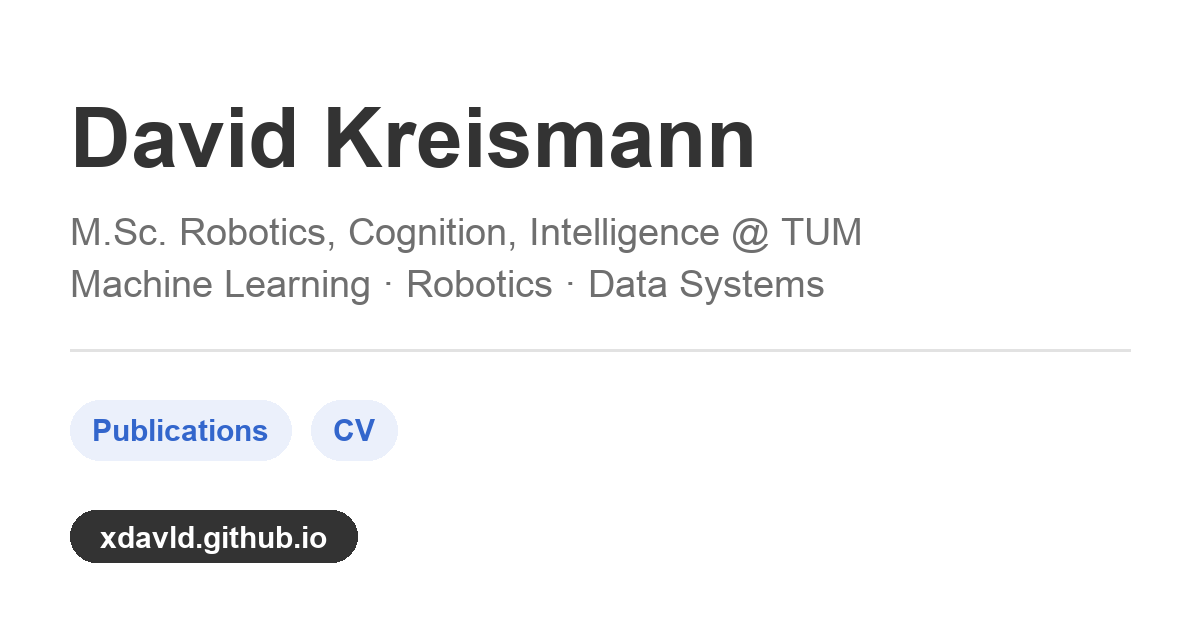
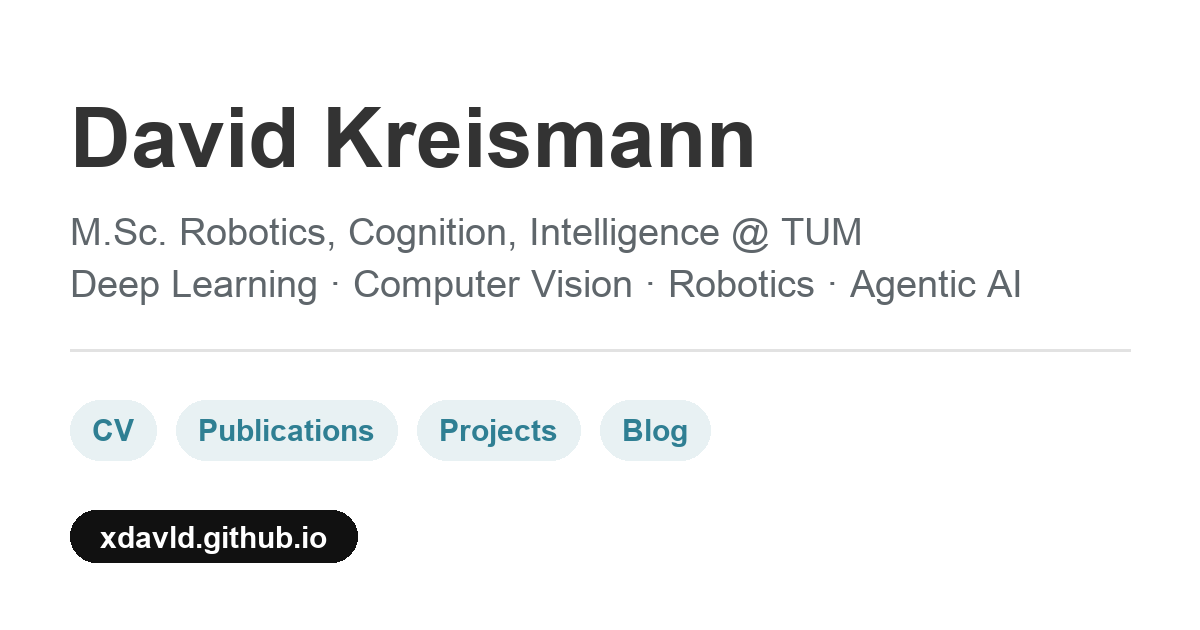
Polish German texts, localize footer, refresh preview image

diff --git a/_includes/footer.html b/_includes/footer.html
@@ -4,7 +4,7 @@
 <div class="page__footer-follow">
   <ul class="social-icons">
     {% if site.data.ui-text[site.locale].follow_label %}
-      <li><strong>{{ site.data.ui-text[site.locale].follow_label }}</strong></li>
+      <li><strong>{% if page.lang == 'de' %}Folgen:{% else %}{{ site.data.ui-text[site.locale].follow_label }}{% endif %}</strong></li>
     {% endif %}
     {% if site.author.github %}
       <li><a href="https://github.com/{{ site.author.github }}"><i class="fab fa-github" aria-hidden="true"></i> GitHub</a></li>
@@ -20,6 +20,6 @@
 {% endif %}
 
 <div class="page__footer-copyright">
-  &copy; {{ site.time | date: '%Y' }} {{ site.name | default: site.title }}, {{ site.data.ui-text[site.locale].powered_by | default: "Powered by" }} <a href="https://jekyllrb.com" rel="nofollow">Jekyll</a> &amp; <a href="https://github.com/academicpages/academicpages.github.io">AcademicPages</a>, a fork of <a href="https://mademistakes.com/work/minimal-mistakes-jekyll-theme/" rel="nofollow">Minimal Mistakes</a>.<br />
-  Site last updated {{ "now" | date: '%Y-%m-%d' }}, {% if page.lang == 'de' %}<a href="{{ base_path }}/de/datenschutz/" style="text-transform: uppercase;">Datenschutz</a>{% else %}<a href="{{ base_path }}/privacy/" style="text-transform: uppercase;">Privacy</a>{% endif %}
+  &copy; {{ site.time | date: '%Y' }} {{ site.name | default: site.title }}, {% if page.lang == 'de' %}erstellt mit{% else %}{{ site.data.ui-text[site.locale].powered_by | default: "Powered by" }}{% endif %} <a href="https://jekyllrb.com" rel="nofollow">Jekyll</a> &amp; <a href="https://github.com/academicpages/academicpages.github.io">AcademicPages</a>, {% if page.lang == 'de' %}basierend auf{% else %}a fork of{% endif %} <a href="https://mademistakes.com/work/minimal-mistakes-jekyll-theme/" rel="nofollow">Minimal Mistakes</a>.<br />
+  {% if page.lang == 'de' %}Zuletzt aktualisiert am {{ "now" | date: '%d.%m.%Y' }}{% else %}Site last updated {{ "now" | date: '%Y-%m-%d' }}{% endif %}, {% if page.lang == 'de' %}<a href="{{ base_path }}/de/datenschutz/" style="text-transform: uppercase;">Datenschutz</a>{% else %}<a href="{{ base_path }}/privacy/" style="text-transform: uppercase;">Privacy</a>{% endif %}
 </div>

diff --git a/_includes/author-profile.html b/_includes/author-profile.html
@@ -26,7 +26,7 @@
   </div>
 
   <div class="author__urls-wrapper">
-    <button class="btn btn--inverse">Follow</button>
+    <button class="btn btn--inverse">{% if page.lang == 'de' %}Folgen{% else %}Follow{% endif %}</button>
     <ul class="author__urls social-icons">
       <!-- Font Awesome icons / Biographic information  -->
       {% if author_location %}

diff --git a/_pages/de/about.md b/_pages/de/about.md
@@ -9,7 +9,7 @@ translation: /
 
 Ich studiere im Master **Robotics, Cognition, Intelligence** an der [Technischen Universität München (TUM)](https://www.tum.de) und bin Werkstudent bei [IBM](https://www.ibm.com).
 
-Auf meinem bisherigen Weg habe ich an Forschungsprojekten im [CV4DT Lab](https://cv4dt.github.io/) der University of Cambridge gearbeitet, wo ich mich aktuell damit beschäftige, Soft-Robotic-Greifer mit generativer KI zu entwerfen. Davor war ich bei IBM Research in [Zürich](https://research.ibm.com/labs/zurich) und [Almaden](https://research.ibm.com/labs/silicon-valley) sowie am [Karlsruhe Service Research Institute](https://www.ksri.kit.edu/) tätig.
+Parallel dazu forsche ich im [CV4DT Lab](https://cv4dt.github.io/) der University of Cambridge und entwerfe dort aktuell mit generativer KI weiche Robotergreifer. Davor war ich bei IBM Research in [Zürich](https://research.ibm.com/labs/zurich) und [Almaden](https://research.ibm.com/labs/silicon-valley) sowie am [Karlsruhe Service Research Institute](https://www.ksri.kit.edu/) tätig.
 
 Forschungsinteressen
 ======
@@ -20,11 +20,11 @@ Forschungsinteressen
 
 Neuigkeiten
 ======
-* **Jun. 2026** – Unser Paper *PTO: A Workload-driven Predictive Table Optimizer for Lakehouse Systems* wird auf der **SIGMOD 2026** vorgestellt.
-* **Jun. 2026** – Ausgezeichnet mit dem **GenDev IT-Stipendium** von CHECK24.
+* **Juni 2026** – Unser Paper *PTO: A Workload-driven Predictive Table Optimizer for Lakehouse Systems* wurde auf der **SIGMOD 2026** vorgestellt.
+* **Juni 2026** – **GenDev IT-Stipendium** von CHECK24 erhalten.
 * **Apr. 2026** – Start als Visiting Researcher im CV4DT Lab der University of Cambridge.
-* **Dez. 2025** – Meine Bachelorarbeit wurde mit dem **Preis für die beste Bachelorarbeit im Bereich Künstliche Intelligenz** (ZfKI) ausgezeichnet.
-* **Dez. 2025** – Vorstellung unserer Arbeit zu urbanen Hitzeinseln auf dem **NeurIPS 2025 Workshop: Tackling Climate Change with Machine Learning**.
-* **Okt. 2025** – Beginn meines Masterstudiums an der TUM und Aufnahme in die **Studienförderung der Stiftung der Deutschen Wirtschaft (sdw)**.
+* **Dez. 2025** – Meine Abschlussarbeit hat den **ZfKI-Preis für die beste Bachelorarbeit im Bereich Künstliche Intelligenz** gewonnen.
+* **Dez. 2025** – Unsere Arbeit zu urbanen Hitzeinseln wurde auf dem **NeurIPS 2025 Workshop: Tackling Climate Change with Machine Learning** vorgestellt.
+* **Okt. 2025** – Start ins Masterstudium an der TUM und Aufnahme in die **Studienförderung der Stiftung der Deutschen Wirtschaft (sdw)**.
 
 Mehr findest du in meinen [Publikationen](/de/publications/) und meinem [Lebenslauf](/de/cv/).

diff --git a/_posts/2026-10-24-willkommen.md b/_posts/2026-10-24-willkommen.md
@@ -11,6 +11,6 @@ related: false
 
 Hallo zusammen, ich habe es endlich geschafft, meine eigene Website aufzusetzen!
 
-Ich nutze sie vor allem als Ort, an dem man erfährt, wer ich bin und woran ich arbeite. Hier findest du meinen [Lebenslauf](/de/cv/), meine [Publikationen](/de/publications/) und einige meiner [Projekte](/de/projects/). Hin und wieder schreibe ich hier vielleicht auch einen Blogbeitrag, etwa über meine Forschungsprojekte oder über Dinge, die ich gerne teilen möchte.
+Hier erfährst du vor allem, wer ich bin und woran ich arbeite. Dazu gehören mein [Lebenslauf](/de/cv/), meine [Publikationen](/de/publications/) und einige meiner [Projekte](/de/projects/). Hin und wieder schreibe ich vielleicht auch einen Blogbeitrag, etwa über meine Forschungsprojekte oder über Dinge, die ich gerne teilen möchte.
 
 Danke fürs Vorbeischauen!

diff --git a/_portfolio/2026-04-check24-mcp-proxy.md b/_portfolio/2026-04-check24-mcp-proxy.md
@@ -1,7 +1,7 @@
 ---
 title: "CHECK24 MCP Proxy"
 excerpt: "One MCP endpoint that aggregates independent CHECK24 product verticals, with routing, conformance checks, versioning and telemetry. Built for the CHECK24 GenDev Scholarship Challenge."
-excerpt_de: "Ein einziger MCP-Endpunkt, der unabhängige CHECK24-Produktbereiche bündelt, mit Routing, Conformance-Prüfungen, Versionierung und Telemetrie. Entstanden für die CHECK24 GenDev Scholarship Challenge."
+excerpt_de: "Ein zentraler MCP-Endpunkt, der die unabhängigen Produktbereiche von CHECK24 bündelt, inklusive Routing, Conformance-Prüfung, Versionierung und Telemetrie. Entstanden für die CHECK24 GenDev Scholarship Challenge."
 collection: portfolio
 translation: /de/projects/check24-mcp-proxy/
 year: 2026

diff --git a/_portfolio/2025-01-semantix.md b/_portfolio/2025-01-semantix.md
@@ -1,7 +1,7 @@
 ---
 title: "Semantix"
 excerpt: "A word guessing game where every guess is scored by how close its meaning is to the secret word, using text embeddings and vector search. In German and English."
-excerpt_de: "Ein Worträtsel, bei dem jeder Tipp danach bewertet wird, wie nah seine Bedeutung am gesuchten Wort ist, mit Text-Embeddings und Vektorsuche. Auf Deutsch und Englisch."
+excerpt_de: "Ein Worträtsel, bei dem jeder Tipp danach bewertet wird, wie nah seine Bedeutung am gesuchten Wort liegt. Dahinter stecken Text-Embeddings und eine Vektorsuche. Spielbar auf Deutsch und Englisch."
 collection: portfolio
 translation: /de/projects/semantix/
 year: 2025

diff --git a/_pages/about.md b/_pages/about.md
@@ -22,7 +22,7 @@ Research interests
 
 News
 ======
-* **Jun 2026** – Our paper *PTO: A Workload-driven Predictive Table Optimizer for Lakehouse Systems* is presented at **SIGMOD 2026**.
+* **Jun 2026** – Our paper *PTO: A Workload-driven Predictive Table Optimizer for Lakehouse Systems* was presented at **SIGMOD 2026**.
 * **Jun 2026** – Awarded the **GenDev IT Scholarship** by CHECK24.
 * **Apr 2026** – Started as visiting researcher at the CV4DT Lab, University of Cambridge.
 * **Dec 2025** – My bachelor thesis received the **Best Bachelor Thesis Award in Artificial Intelligence** (ZfKI).

diff --git a/_pages/de/projects/instagram-uploader.md b/_pages/de/projects/instagram-uploader.md
@@ -6,4 +6,4 @@ lang: de
 translation: /portfolio/2024-11-instagram-uploader/
 ---
 
-Eine Web-App, die die Verwaltung eines Instagram-Accounts erleichtert. Man meldet sich mit seinem Instagram-Account an, lädt Bilder und Videos per Drag and Drop hoch und legt fest, wann jeder Beitrag online gehen soll.
+Eine Web-App, die das Verwalten eines Instagram-Kontos erleichtert. Du meldest dich mit deinem Instagram-Account an, lädst Bilder und Videos per Drag-and-drop hoch und legst fest, wann jeder Beitrag online geht.
